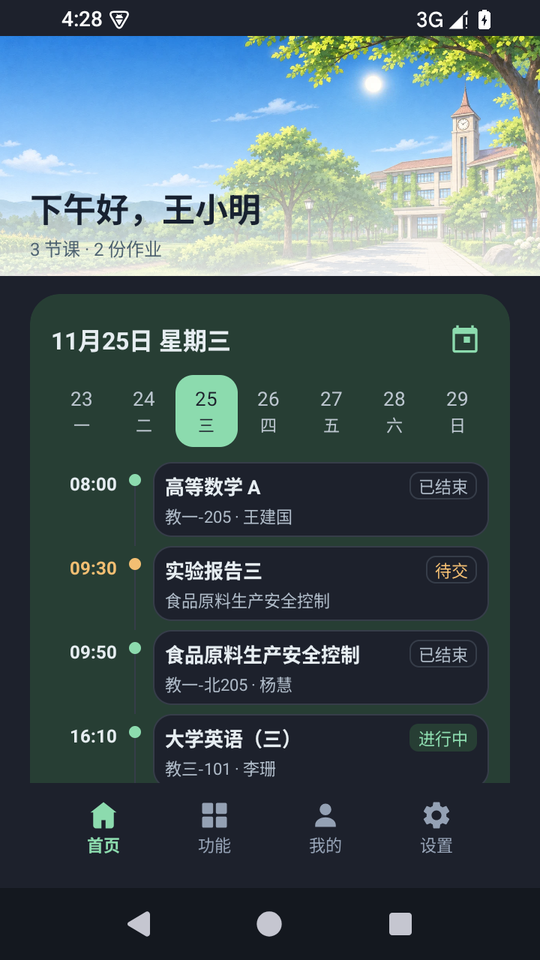
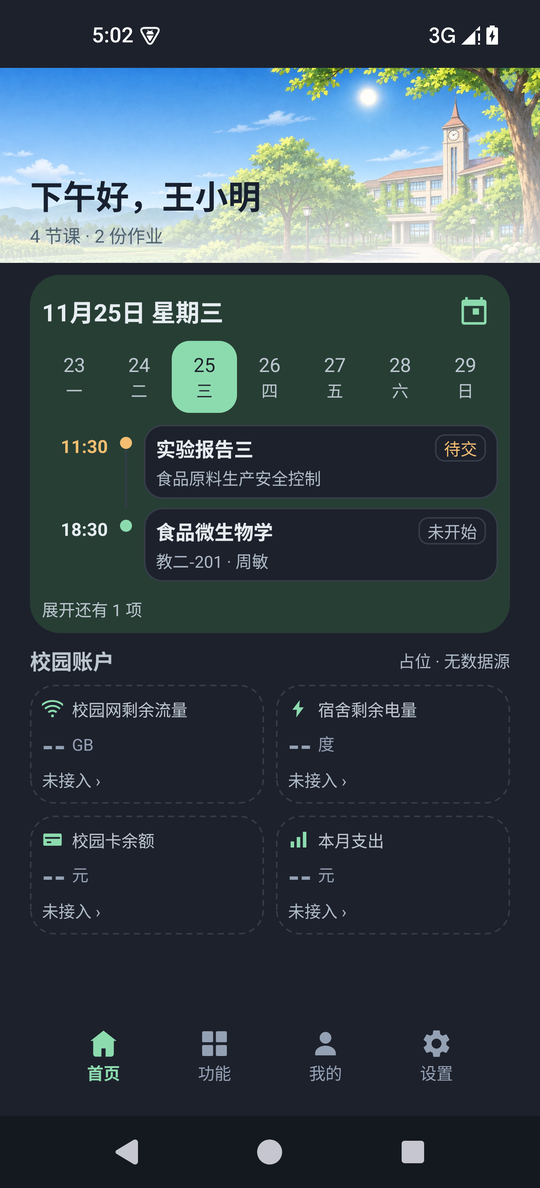
feat: 首页时间轴自适应折叠，隐藏已结束，账户卡进首屏
已结束的课与已交的作业只在「今天」收起，翻到过去日期仍全部保留。
时间轴按真实测量的剩余高度决定显示几条，放不下的收进「展开还有 N 项」，
不写死条数，任何屏高都不用它回来调常数。

为了让账户卡也进首屏，插画与卡片间距轻度瘦身；周条 48dp 触达下限未动。
新增一屏断言锁住这个承诺——它当场抓到未绑定空态比折叠列表还高的漏网情况。

diff --git a/app/src/main/java/org/localroute/app/ui/MainActivity.java b/app/src/main/java/org/localroute/app/ui/MainActivity.java
@@ -54,6 +54,10 @@ public class MainActivity extends AppCompatActivity {
     private LocalDate selectedDay;
     private List<LocalDate> weekDays = new ArrayList<>();
     private String[] weekdayLabels;
+    /** 时间轴默认折叠到「一屏放得下」的条数，点开后才允许整页滚动。 */
+    private boolean agendaExpanded;
+    private boolean collapseActionable;
+    private final Runnable collapsePass = this::applyCollapse;
 
     @Override protected void onCreate(Bundle savedInstanceState) {
         super.onCreate(savedInstanceState);
@@ -69,6 +73,11 @@ public class MainActivity extends AppCompatActivity {
         weekdayLabels = getResources().getStringArray(R.array.home_weekday_labels);
         binding.buttonHomeCalendar.setOnClickListener(v -> HomeTarget.TIMETABLE.open(this));
         binding.buttonHomeBind.setOnClickListener(v -> onEmptyAction());
+        binding.textHomeAgendaCount.setOnClickListener(v -> {
+            if (!collapseActionable) return;
+            agendaExpanded = !agendaExpanded;
+            render();
+        });
         binding.cardHomeTraffic.setOnClickListener(v -> openProfile());
         binding.cardHomePower.setOnClickListener(v -> openProfile());
         binding.cardHomeCard.setOnClickListener(v -> openProfile());
@@ -203,10 +212,17 @@ public class MainActivity extends AppCompatActivity {
         binding.textHomeGreeting.setText(getString(greetRes, name));
         // 没绑定但已经手动加过课／作业时，不能再谎称「绑定后才有课程」。
         boolean nothingToday = todayAgenda.courseCount() == 0 && todayAgenda.taskCount() == 0;
-        binding.textHomeGreetingSub.setText(session == null && nothingToday
-                ? getString(R.string.home_greet_unbound)
-                : getString(R.string.home_greet_summary, todayAgenda.courseCount(),
-                todayAgenda.taskCount()));
+        int subRes;
+        if (session == null && nothingToday) {
+            subRes = R.string.home_greet_unbound;
+        } else if (todayAgenda.notImported()) {
+            subRes = R.string.home_greet_no_timetable;
+        } else {
+            binding.textHomeGreetingSub.setText(getString(R.string.home_greet_summary,
+                    todayAgenda.courseCount(), todayAgenda.taskCount()));
+            return;
+        }
+        binding.textHomeGreetingSub.setText(subRes);
     }
 
     private void renderDate() {
@@ -235,6 +251,7 @@ public class MainActivity extends AppCompatActivity {
             cell.getRoot().setContentDescription(dateLabel(day));
             cell.getRoot().setOnClickListener(v -> {
                 selectedDay = day;
+                agendaExpanded = false;
                 render();
             });
             binding.weekStrip.addView(cell.getRoot());
@@ -242,11 +259,12 @@ public class MainActivity extends AppCompatActivity {
     }
 
     private void renderAgenda(HomeAgenda.Day shown, StudySession session) {
+        binding.homeScroll.removeCallbacks(collapsePass);
+        collapseActionable = false;
         binding.agendaList.removeAllViews();
         boolean empty = shown.items().isEmpty();
         binding.agendaList.setVisibility(empty ? View.GONE : View.VISIBLE);
         binding.agendaEmpty.setVisibility(empty ? View.VISIBLE : View.GONE);
-        binding.dividerAgendaCount.setVisibility(empty ? View.GONE : View.VISIBLE);
         binding.textHomeAgendaCount.setVisibility(empty ? View.GONE : View.VISIBLE);
         if (empty) {
             renderEmpty(shown, session);
@@ -263,6 +281,43 @@ public class MainActivity extends AppCompatActivity {
             bindRow(row, item, i == items.size() - 1);
             binding.agendaList.addView(row.getRoot());
         }
+        // 先按全量渲染量一次真实高度，再决定收起几条：不写死条数，任何屏高都能一屏。
+        binding.homeScroll.post(collapsePass);
+    }
+
+    /**
+     * 自适应折叠：整页放得下就全展开；放不下就从末尾收起若干条，换成「展开还有 N 项」。
+     *
+     * <p>用的是真实测量高度而不是估算，所以插画、账户卡、字号任何一处改动都不用回来调常数。
+     */
+    private void applyCollapse() {
+        int total = binding.agendaList.getChildCount();
+        int viewport = binding.homeScroll.getHeight();
+        if (total == 0 || viewport <= 0) return;
+        int content = binding.homeContent.getHeight();
+        if (content <= viewport) return;
+        if (agendaExpanded) {
+            collapseActionable = true;
+            binding.textHomeAgendaCount.setText(R.string.home_agenda_collapse);
+            return;
+        }
+        int rowsHeight = 0;
+        for (int i = 0; i < total; i++) {
+            rowsHeight += binding.agendaList.getChildAt(i).getHeight();
+        }
+        int rowHeight = binding.agendaList.getChildAt(0).getHeight();
+        if (rowHeight <= 0) return;
+        int fit = Math.max(0, (viewport - (content - rowsHeight)) / rowHeight);
+        if (fit >= total) return;
+        for (int i = total - 1; i >= fit; i--) {
+            binding.agendaList.removeViewAt(i);
+        }
+        if (fit > 0) {
+            binding.agendaList.getChildAt(fit - 1).findViewById(R.id.viewItemLine)
+                    .setVisibility(View.INVISIBLE);
+        }
+        collapseActionable = true;
+        binding.textHomeAgendaCount.setText(getString(R.string.home_agenda_expand, total - fit));
     }
 
     private void bindRow(ItemHomeAgendaBinding row, HomeAgenda.Item item, boolean last) {
@@ -330,23 +385,24 @@ public class MainActivity extends AppCompatActivity {
         FinmoriMotion.press(row.cardItem);
     }
 
-    /** 空态分三种：没绑定、绑了但没课表、这天真的没安排。 */
+    /** 空态分四种：今天都结束了、没绑定、绑了但没课表、这天真的没安排。 */
     private void renderEmpty(HomeAgenda.Day shown, StudySession session) {
+        if (shown.hiddenFinished() > 0) {
+            binding.textHomeEmptyTitle.setText(R.string.home_agenda_all_done);
+            binding.buttonHomeBind.setVisibility(View.GONE);
+            return;
+        }
         if (shown.notImported()) {
             boolean unbound = session == null;
             binding.textHomeEmptyTitle.setText(unbound
                     ? R.string.home_bind_title : R.string.home_agenda_no_timetable);
-            binding.textHomeEmptyDetail.setText(unbound
-                    ? R.string.home_bind_detail : R.string.home_agenda_no_timetable_detail);
             binding.buttonHomeBind.setText(unbound
                     ? R.string.home_bind_action : R.string.home_agenda_import_action);
-            binding.textHomeEmptyDetail.setVisibility(View.VISIBLE);
             binding.buttonHomeBind.setVisibility(View.VISIBLE);
             return;
         }
         binding.textHomeEmptyTitle.setText(shown.closed()
                 ? R.string.home_agenda_closed : R.string.home_agenda_empty);
-        binding.textHomeEmptyDetail.setVisibility(View.GONE);
         binding.buttonHomeBind.setVisibility(View.GONE);
     }
 

diff --git a/app/src/main/java/org/localroute/app/home/HomeAgenda.java b/app/src/main/java/org/localroute/app/home/HomeAgenda.java
@@ -124,6 +124,13 @@ public final class HomeAgenda {
         @Nullable public HomeworkItem.Status taskStatus() {
             return taskStatus;
         }
+
+        /** 课上完了、作业交完或过期了，都算已结束。 */
+        public boolean finished() {
+            return kind == Kind.COURSE
+                    ? classState == ClassState.DONE
+                    : taskStatus != HomeworkItem.Status.PENDING;
+        }
     }
 
     /** 某一天的完整内容。 */
@@ -133,14 +140,16 @@ public final class HomeAgenda {
         private final boolean notImported;
         private final int courseCount;
         private final int taskCount;
+        private final int hiddenFinished;
 
         private Day(List<Item> items, boolean closed, boolean notImported,
-                    int courseCount, int taskCount) {
+                    int courseCount, int taskCount, int hiddenFinished) {
             this.items = items;
             this.closed = closed;
             this.notImported = notImported;
             this.courseCount = courseCount;
             this.taskCount = taskCount;
+            this.hiddenFinished = hiddenFinished;
         }
 
         @NonNull public List<Item> items() {
@@ -164,6 +173,11 @@ public final class HomeAgenda {
         public int taskCount() {
             return taskCount;
         }
+
+        /** 今天被隐藏掉的已结束条目数；{@link #courseCount()} 等仍是当天总数。 */
+        public int hiddenFinished() {
+            return hiddenFinished;
+        }
     }
 
     private HomeAgenda() {
@@ -183,6 +197,9 @@ public final class HomeAgenda {
         List<Item> undated = new ArrayList<>();
         int courseCount = 0;
         int taskCount = 0;
+        int hiddenFinished = 0;
+        // 只有「今天」需要收起已结束的条目；翻到过去日期时全部保留，否则历史全是空白。
+        boolean hideFinished = day.equals(today);
 
         for (TimetableCourse course : TimetableDay.classesOn(courses, day, semesterStart,
                 totalWeeks, adjustments)) {
@@ -195,10 +212,15 @@ public final class HomeAgenda {
             int end = schedule.periodEndMinutes(
                     Math.min(course.endPeriod(), schedule.totalPeriods()));
             end = Math.max(start, end);
-            timed.add(new Item(Kind.COURSE, start, StudySchedule.formatMinutes(start),
+            Item item = new Item(Kind.COURSE, start, StudySchedule.formatMinutes(start),
                     course.name(), placeAndTeacher(course),
-                    classState(day, today, nowMinutes, start, end), null));
+                    classState(day, today, nowMinutes, start, end), null);
             courseCount++;
+            if (hideFinished && item.finished()) {
+                hiddenFinished++;
+                continue;
+            }
+            timed.add(item);
         }
 
         ZoneId zone = ZoneId.systemDefault();
@@ -217,9 +239,14 @@ public final class HomeAgenda {
                 continue;
             }
             int minutes = instant.atZone(zone).getHour() * 60 + instant.atZone(zone).getMinute();
-            timed.add(new Item(Kind.HOMEWORK, minutes, StudySchedule.formatMinutes(minutes),
-                    task.title(), task.subtitle(), null, task.status()));
+            Item item = new Item(Kind.HOMEWORK, minutes, StudySchedule.formatMinutes(minutes),
+                    task.title(), task.subtitle(), null, task.status());
             taskCount++;
+            if (hideFinished && item.finished()) {
+                hiddenFinished++;
+                continue;
+            }
+            timed.add(item);
         }
 
         timed.sort(Comparator.comparingInt((Item item) -> item.minutes)
@@ -227,7 +254,7 @@ public final class HomeAgenda {
         List<Item> items = new ArrayList<>(timed);
         items.addAll(undated);
         return new Day(items, TimetableDay.isClosed(day, adjustments), courses.isEmpty(),
-                courseCount, taskCount);
+                courseCount, taskCount, hiddenFinished);
     }
 
     @NonNull

diff --git a/app/src/test/java/org/localroute/app/home/HomeAgendaTest.java b/app/src/test/java/org/localroute/app/home/HomeAgendaTest.java
@@ -206,13 +206,44 @@ public class HomeAgendaTest {
         assertEquals(0, result.courseCount());
     }
 
-    /** 末节超出作息时钳到最后一节：21:45 下课，21:50 就该是已结束而不是进行中。 */
+    /** 末节超出作息时钳到最后一节：21:45 下课，21:50 就该判已结束（不钳的话会算成进行中）。 */
     @Test public void endPeriodIsClampedToScheduleTotal() {
         HomeAgenda.Day result = day(courses(course("a", 3, 11, 15)), WEDNESDAY, WEDNESDAY,
                 21 * 60 + 50, Collections.emptyList(), Collections.emptyList());
 
-        assertEquals(1, result.items().size());
-        assertEquals("20:10", result.items().get(0).timeLabel());
-        assertEquals(HomeAgenda.ClassState.DONE, result.items().get(0).classState());
+        assertEquals(1, result.courseCount());
+        assertEquals(1, result.hiddenFinished());
+        assertTrue(result.items().isEmpty());
+    }
+
+    /** 今天已结束的课与已交的作业收起来，但当天总数不变。 */
+    @Test public void finishedItemsAreHiddenOnToday() {
+        List<TimetableCourse> list = courses(course("a", 3, 1, 2), course("b", 3, 5, 6));
+        List<HomeAgenda.Task> tasks = Arrays.asList(
+                task("已交的", millisAt(WEDNESDAY, 9, 0), HomeworkItem.Status.SUBMITTED),
+                task("待交的", millisAt(WEDNESDAY, 15, 0), HomeworkItem.Status.PENDING));
+
+        HomeAgenda.Day result = day(list, WEDNESDAY, WEDNESDAY, 10 * 60, tasks,
+                Collections.emptyList());
+
+        assertEquals(2, result.items().size());
+        assertEquals("13:30", result.items().get(0).timeLabel());
+        assertEquals("15:00", result.items().get(1).timeLabel());
+        assertEquals(2, result.hiddenFinished());
+        assertEquals(2, result.courseCount());
+        assertEquals(2, result.taskCount());
+    }
+
+    /** 翻到过去日期时不隐藏，否则历史全是空白。 */
+    @Test public void pastDayKeepsFinishedItems() {
+        List<TimetableCourse> list = courses(course("a", 3, 1, 2));
+        List<HomeAgenda.Task> tasks = Collections.singletonList(
+                task("已交的", millisAt(WEDNESDAY, 9, 0), HomeworkItem.Status.SUBMITTED));
+
+        HomeAgenda.Day result = day(list, WEDNESDAY, THURSDAY, 10 * 60, tasks,
+                Collections.emptyList());
+
+        assertEquals(2, result.items().size());
+        assertEquals(0, result.hiddenFinished());
     }
 }

diff --git a/app/src/androidTest/java/org/localroute/app/ui/CampusWorkspaceTest.java b/app/src/androidTest/java/org/localroute/app/ui/CampusWorkspaceTest.java
@@ -43,6 +43,13 @@ public class CampusWorkspaceTest {
         onView(withId(R.id.imageHomeHero)).check(matches(isDisplayed()));
         onView(withId(R.id.cardHomeAgenda)).check(matches(isDisplayed()));
         onView(withId(R.id.cardHomeTraffic)).check(matches(isDisplayed()));
+        // 自适应折叠的承诺：首屏不用滚动就能看完，账户卡也在内。
+        onView(withId(R.id.homeScroll)).check((view, error) -> {
+            android.widget.ScrollView scroll = (android.widget.ScrollView) view;
+            assertTrue("首页内容超出首屏，折叠没生效：content="
+                            + scroll.getChildAt(0).getHeight() + " viewport=" + scroll.getHeight(),
+                    scroll.getChildAt(0).getHeight() <= scroll.getHeight());
+        });
         // 运行中与环境引导两张动态卡搬去了功能页，首页不该再有。
         onView(withId(R.id.cardActiveRun)).check(doesNotExist());
         onView(withId(R.id.cardSetupGuide)).check(doesNotExist());
@@ -215,7 +222,7 @@ public class CampusWorkspaceTest {
     @Test public void runningControlsFunctionsShortcutAndExternalCommandsStayInSync() throws Exception {
         try (ActivityScenario<FunctionsActivity> functions =
                      ActivityScenario.launch(FunctionsActivity.class)) {
-            onView(withId(R.id.cardCampusRun)).perform(click());
+            onView(withId(R.id.cardCampusRun)).perform(scrollTo(), click());
             onView(withId(R.id.buttonRunMain)).perform(click());
             await(() -> SimulationStateRepo.get().current().state() == RunState.RUNNING);
             String runId = SimulationStateRepo.get().current().runId();
@@ -262,7 +269,7 @@ public class CampusWorkspaceTest {
     @Test public void overlayPresetRemainsTheNaturalSpeedTarget() throws Exception {
         try (ActivityScenario<FunctionsActivity> scenario =
                      ActivityScenario.launch(FunctionsActivity.class)) {
-            onView(withId(R.id.cardCampusRun)).perform(click());
+            onView(withId(R.id.cardCampusRun)).perform(scrollTo(), click());
             onView(withId(R.id.buttonRunMain)).perform(click());
             await(() -> SimulationStateRepo.get().current().state() == RunState.RUNNING);
             InstrumentationRegistry.getInstrumentation().runOnMainSync(() ->
